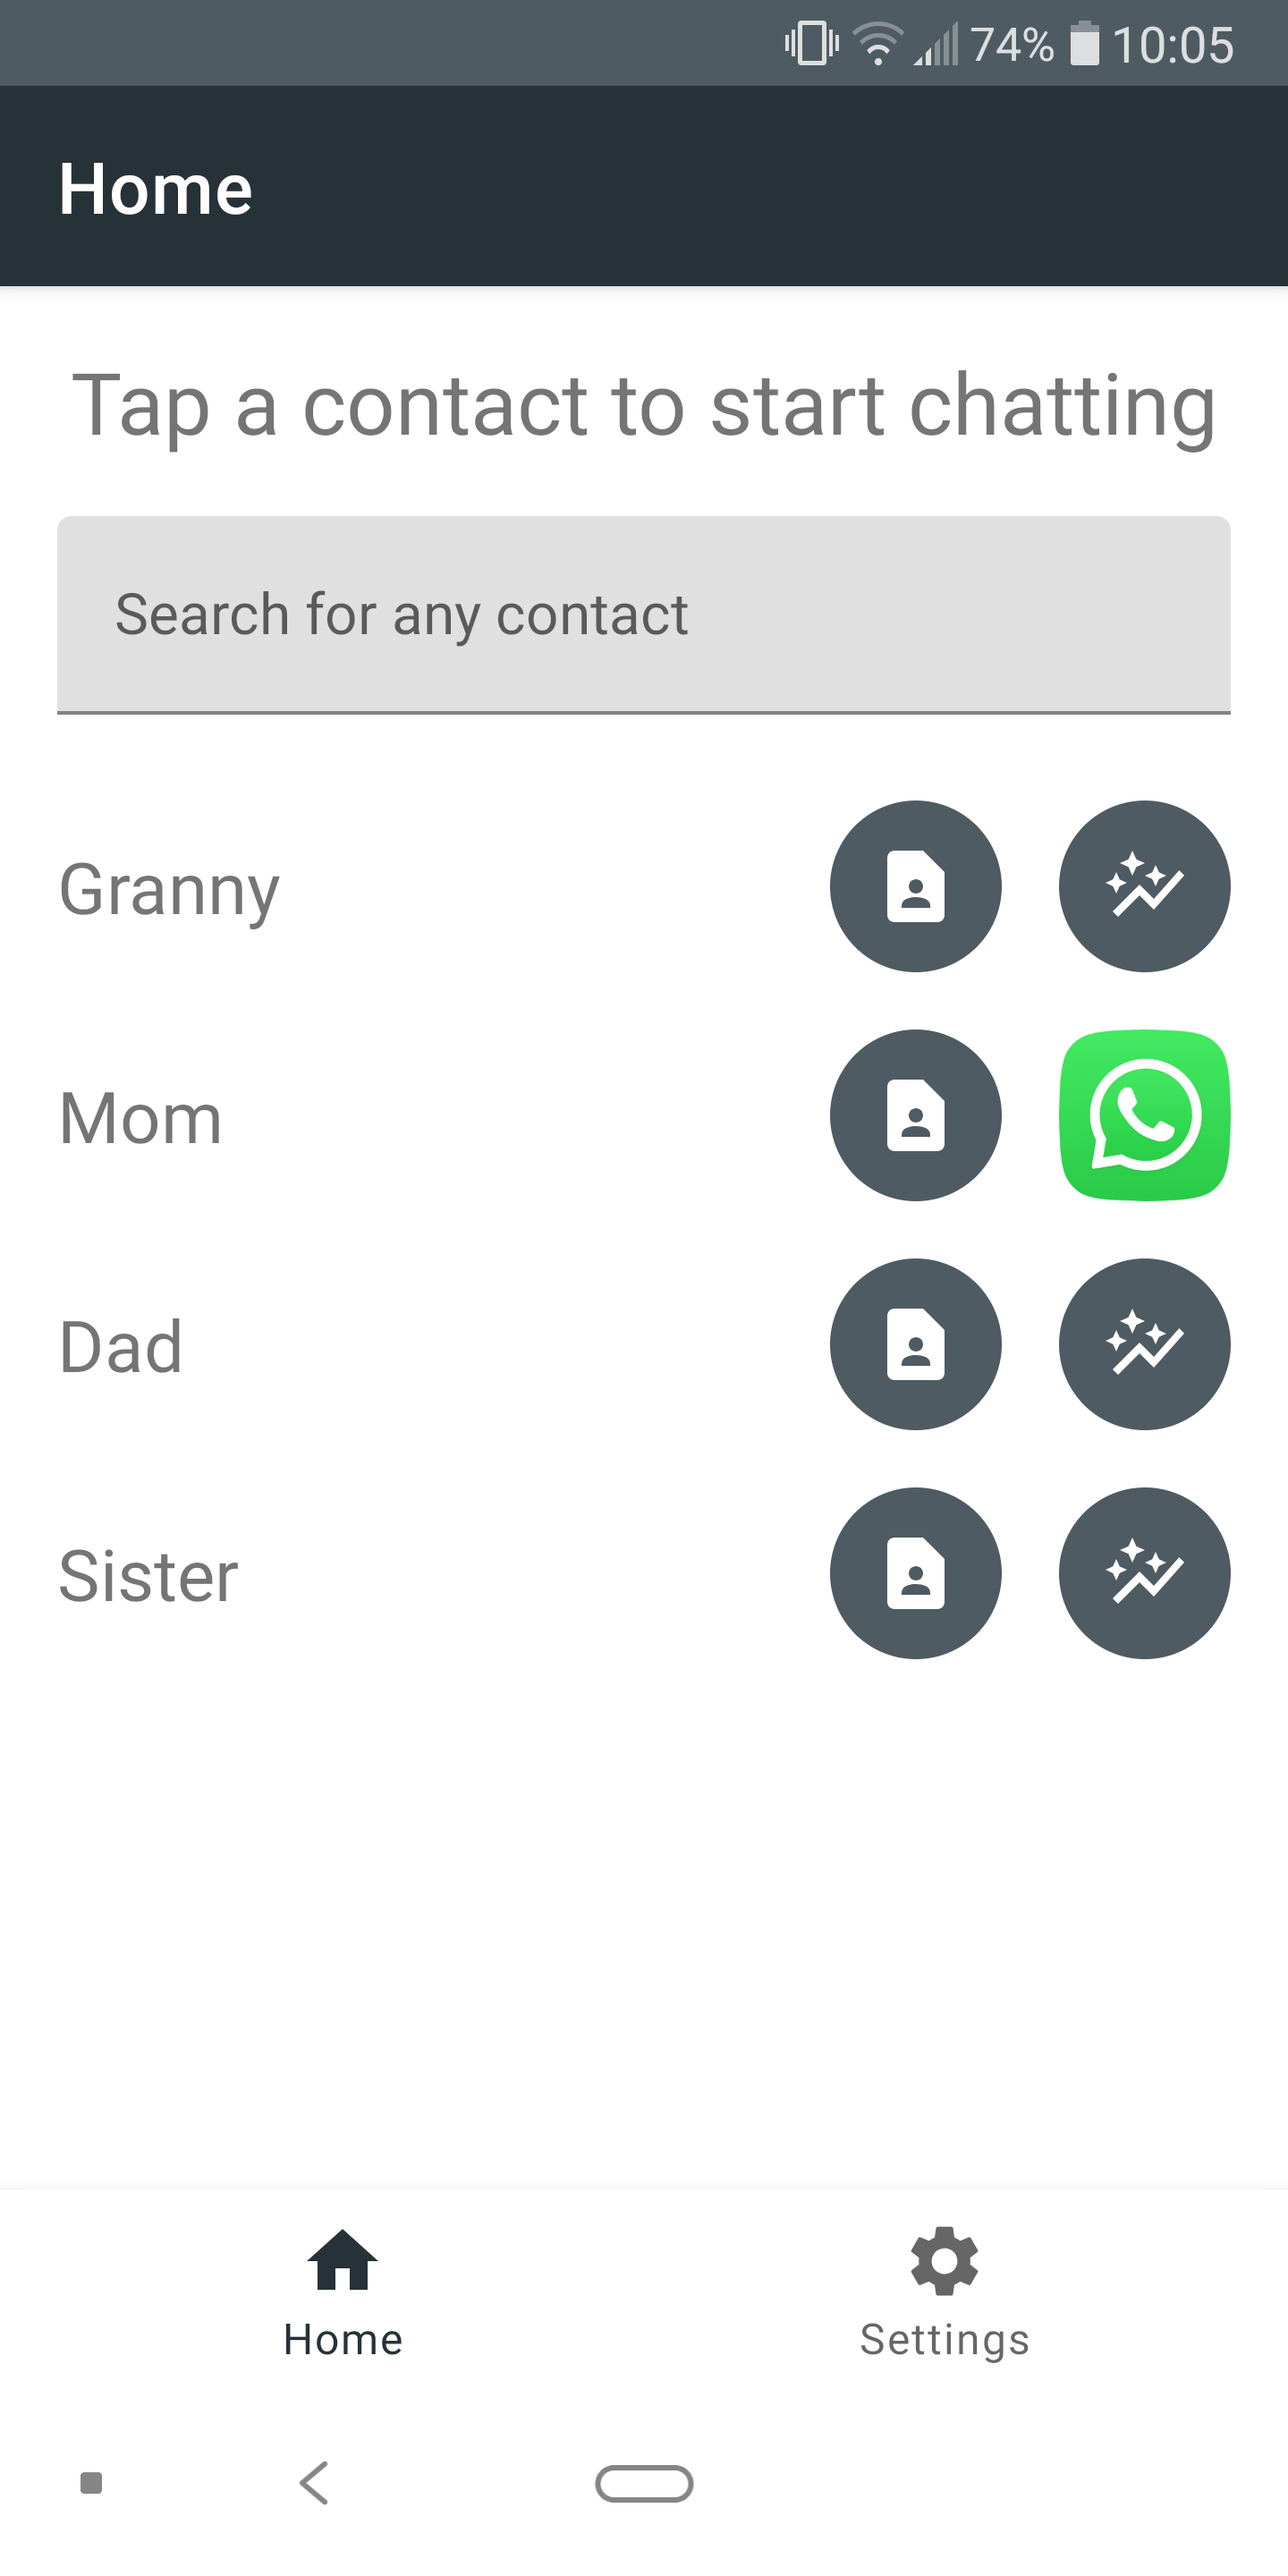
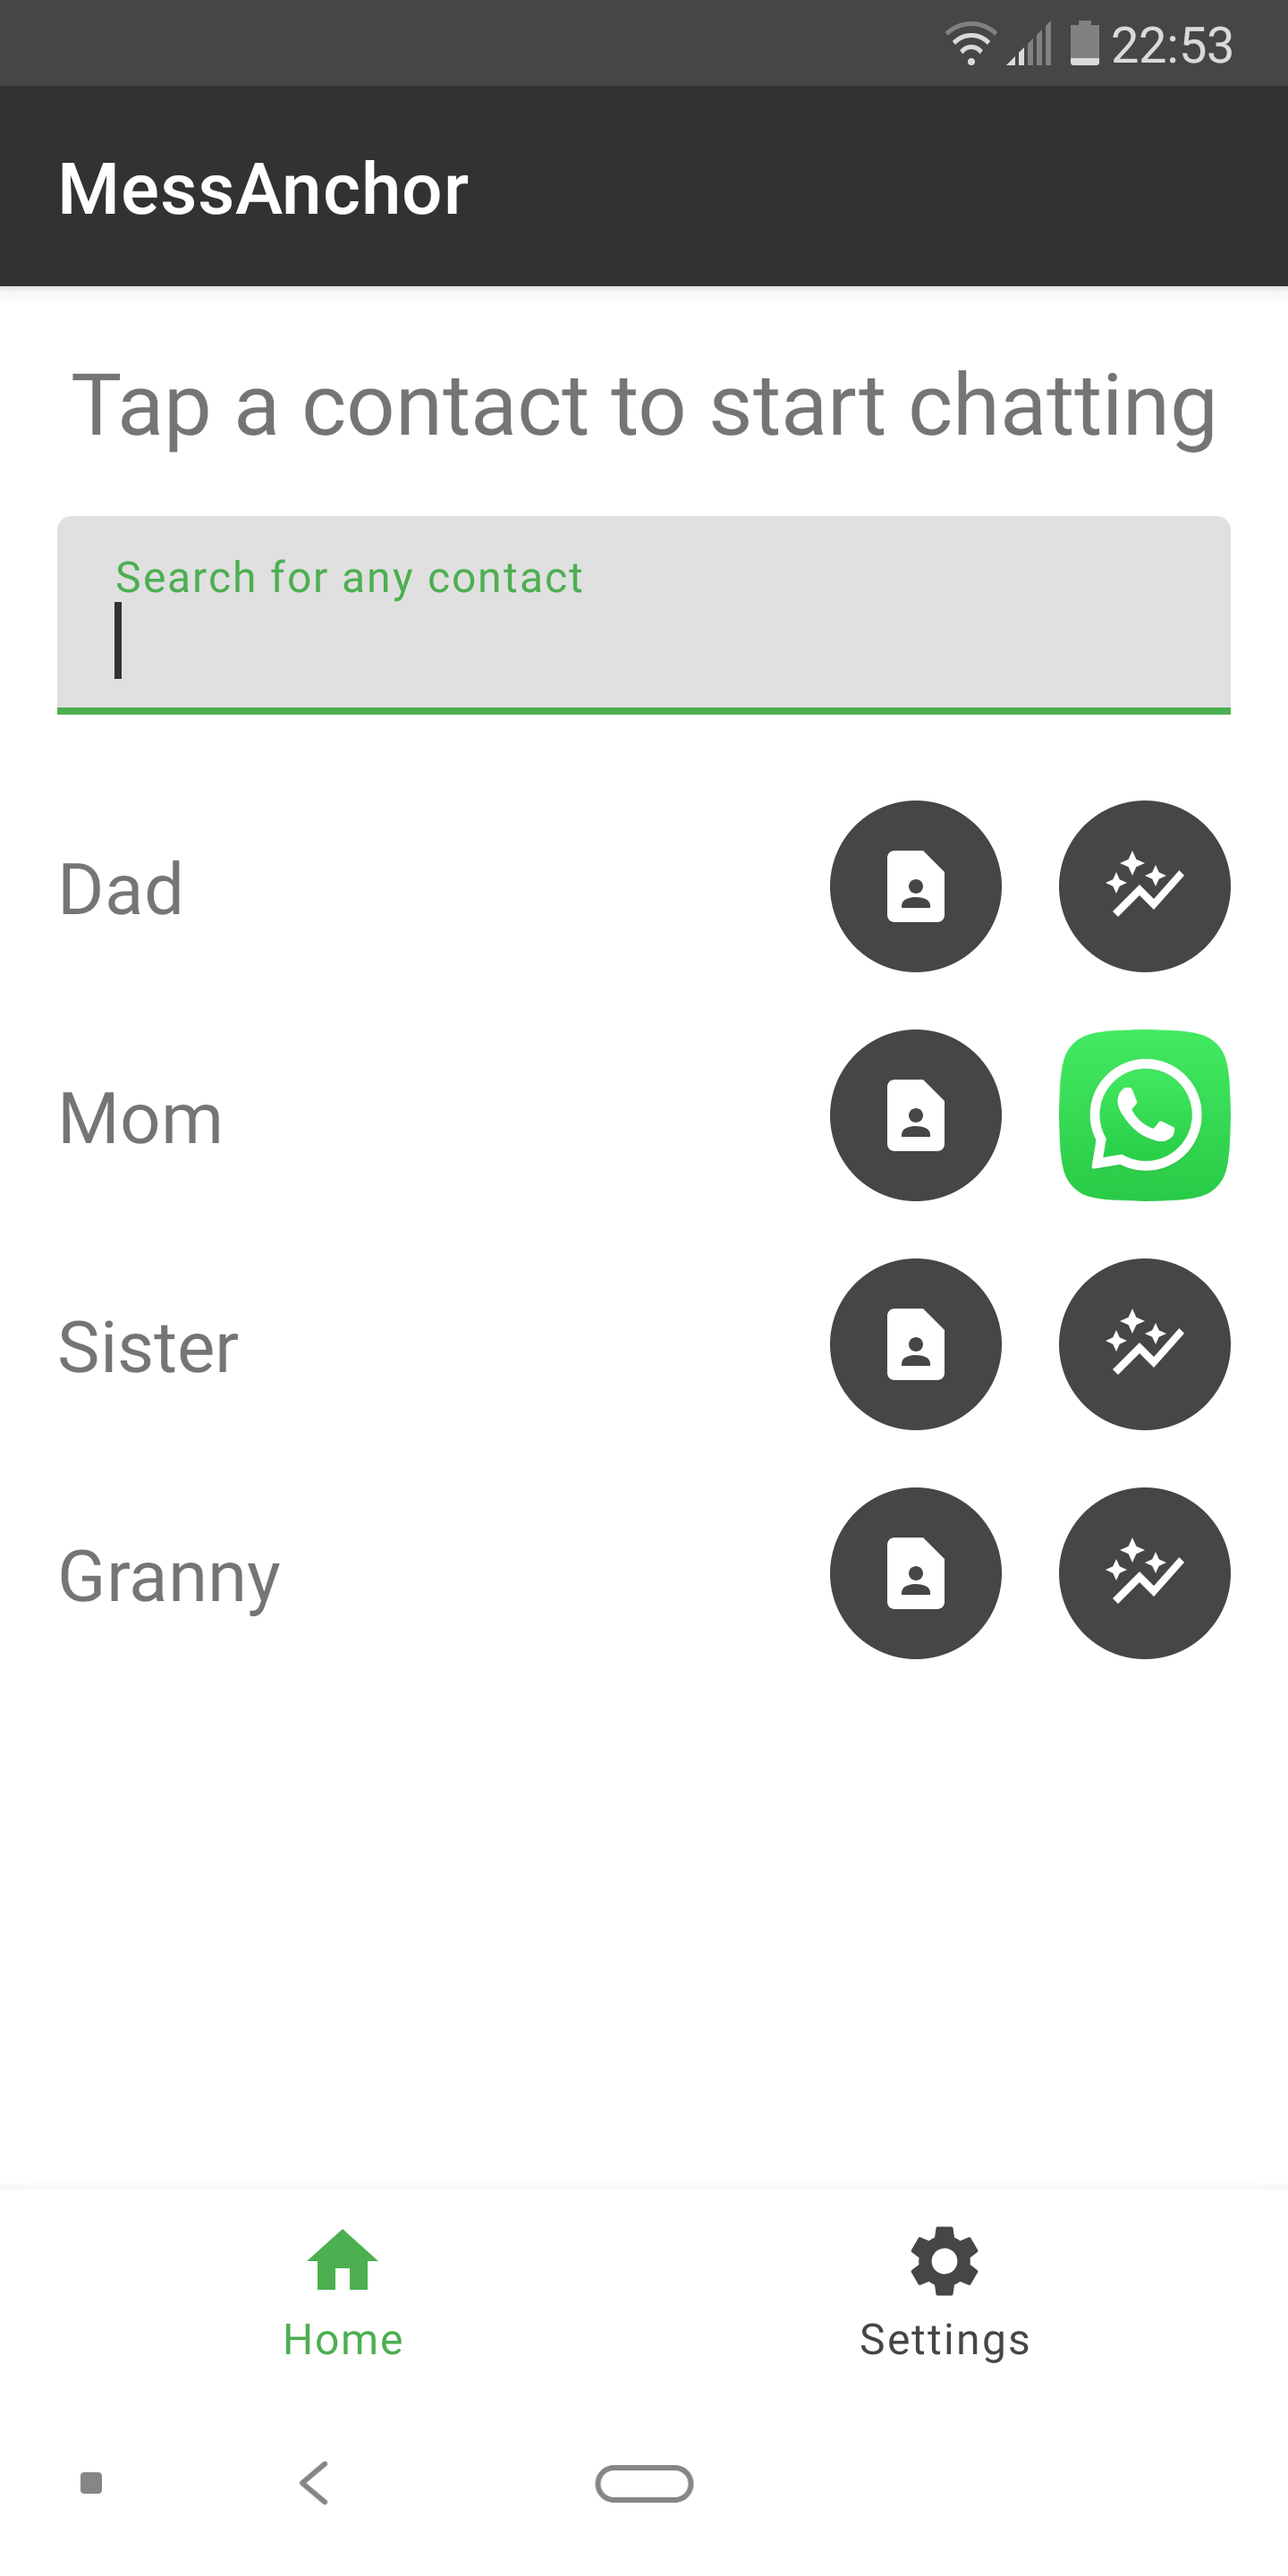
Updates screenshots

diff --git a/README.md b/README.md
@@ -21,6 +21,6 @@ If the contact doesn't use that messenger, your second favorite messenger will b
 - WhatsApp
 
 ## Screenshots
-<img src="screenshots/settings.png" alt="settings" width="300"/> <img src="screenshots/contact_list.png" alt="contact list" width="300"/>
-<img src="screenshots/select_messenger.png" alt="select specific messenger for contact" width="300"/> <img src="screenshots/contact_search.png" alt="search for contacts" width="300"/>
-<img src="screenshots/contact_list_open_contacts.png" alt="option to open contact page" width="300"/>
+<img src="screenshots/en/settings.png" alt="settings" width="300"/> <img src="screenshots/en/contact_list.png" alt="contact list" width="300"/>
+<img src="screenshots/en/select_messenger.png" alt="select specific messenger for contact" width="300"/> <img src="screenshots/en/contact_search.png" alt="search for contacts" width="300"/>
+<img src="screenshots/en/contact_list_open_contacts.png" alt="option to open contact page" width="300"/>
